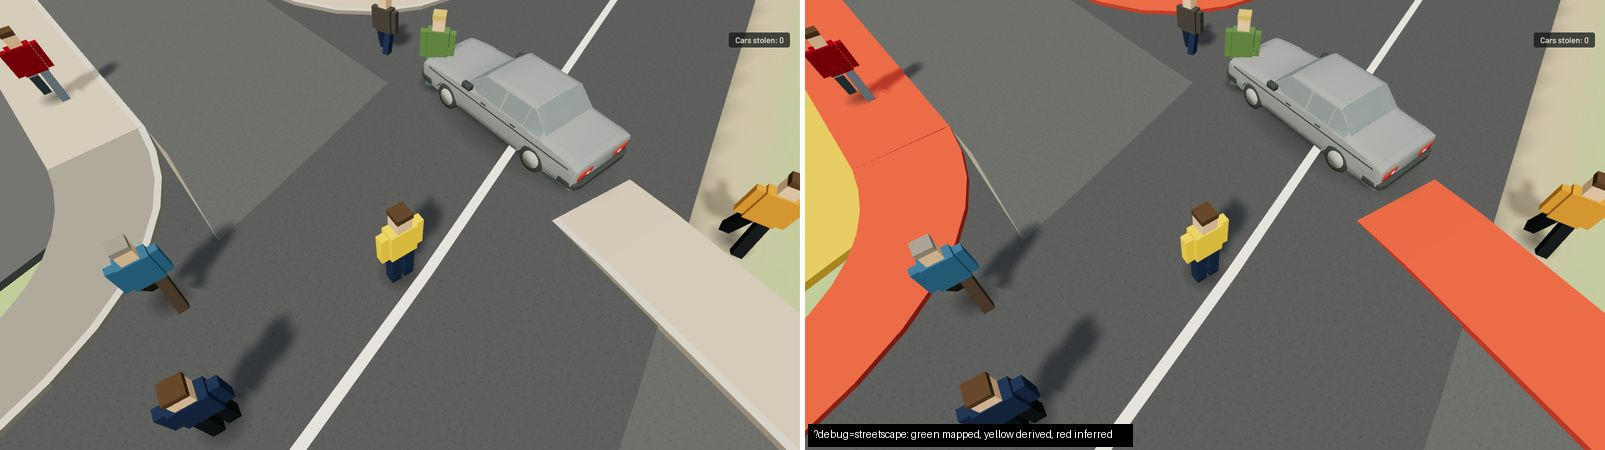
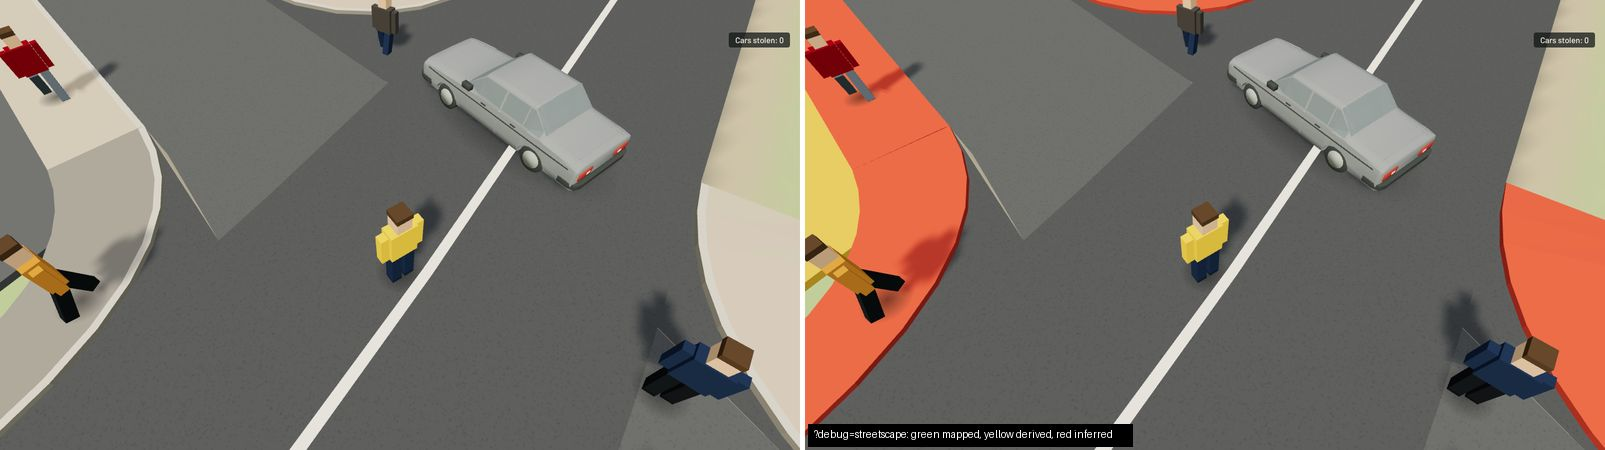
fix(world): round half junctions into the street without a sidewalk
Where only one arm of a junction sector has a sidewalk, the corner now
rounds into the other arm as a stub as deep as the strip, and ramps down
to a lowered curb over its last 1.5 m, instead of the strip ending square
at the other arm's curb line. A stub that would stand on a building,
water or another carriageway is dropped, and the strip ramps as before.

Part of #187

Claude-Session: https://claude.ai/code/session_01Lchmd5dMq52YgB3Mp3M2p7

diff --git a/src/world/streetscape.ts b/src/world/streetscape.ts
@@ -319,6 +319,11 @@ interface CornerPlan {
   liftB: number;
   /** the bigger road's class: the wedge is drawn as that road */
   cls: RoadClass;
+  /**
+   * a half corner: arm b has no sidewalk on this side, so the corner turns into it and ramps down there. Its end on
+   * b's curb line, and the outer point as deep as arm a's strip.
+   */
+  stub: { inner: V2; outer: V2 } | null;
 }
 
 /**
@@ -437,12 +442,15 @@ export function buildStreetscape(inp: StreetscapeInputs): StreetscapeLayout {
       const nB: V2 = [B.d[1], -B.d[0]];
       const K = intersect([J[0] + nA[0] * A.half, J[1] + nA[1] * A.half], A.d, [J[0] + nB[0] * B.half, J[1] + nB[1] * B.half], B.d);
       if (!K) continue;
-      const depthA = stripA ? depthOf(A.ri, sideA) : 0;
-      const depthB = stripB ? depthOf(B.ri, sideB) : 0;
+      const filleted = theta >= (MIN_CORNER_DEG * Math.PI) / 180;
+      // a half corner: the arm without a sidewalk gets a stub as deep as the other's, so the corner rounds into it
+      let depthA = stripA ? depthOf(A.ri, sideA) : 0;
+      let depthB = stripB ? depthOf(B.ri, sideB) : 0;
+      if (filleted && !stripA) depthA = depthB;
+      if (filleted && !stripB) depthB = depthA;
       const sin = Math.sin(theta);
       const cos = Math.cos(theta);
       const R = lines[A.ri].c <= RoadClass.SECONDARY || lines[B.ri].c <= RoadClass.SECONDARY ? FILLET_MAJOR_M : FILLET_STREET_M;
-      const filleted = stripA && stripB && theta >= (MIN_CORNER_DEG * Math.PI) / 180;
       // how far past K each strip must start so it clears the other arm's strip (or curb line), plus the fillet
       const clearA = (depthB + Math.max(0, depthA * cos)) / sin + 0.2;
       const clearB = (depthA + Math.max(0, depthB * cos)) / sin + 0.2;
@@ -468,7 +476,18 @@ export function buildStreetscape(inp: StreetscapeInputs): StreetscapeLayout {
           [J[0] + nB[0] * (B.half + depthB), J[1] + nB[1] * (B.half + depthB)],
           B.d,
         );
-        plans.push({ a: { ri: A.ri, side: sideA, s: endA }, b: { ri: B.ri, side: sideB, s: endB }, k: K, kOuter, liftA: roadLiftM(lines[A.ri].c), liftB: roadLiftM(lines[B.ri].c), cls: Math.min(lines[A.ri].c, lines[B.ri].c) as RoadClass });
+        const a = { ri: A.ri, side: sideA, s: endA };
+        const b = { ri: B.ri, side: sideB, s: endB };
+        const cls = Math.min(lines[A.ri].c, lines[B.ri].c) as RoadClass;
+        if (stripA && stripB) plans.push({ a, b, k: K, kOuter, liftA: roadLiftM(lines[A.ri].c), liftB: roadLiftM(lines[B.ri].c), cls, stub: null });
+        else {
+          // keep the real strip as a; the stub ends on the other arm's curb line, past K by the same clearance a strip would need
+          const [real, other, n, d, aOther, depth] = stripA ? [a, b, nB, B.d, aB, depthA] : [b, a, nA, A.d, aA, depthB];
+          const inner: V2 = [K[0] + d[0] * aOther, K[1] + d[1] * aOther];
+          const stub = { inner, outer: [inner[0] + n[0] * depth, inner[1] + n[1] * depth] as V2 };
+          const liftReal = roadLiftM(lines[real.ri].c);
+          plans.push({ a: real, b: other, k: K, kOuter, liftA: liftReal, liftB: roadLiftM(lines[other.ri].c), cls, stub });
+        }
       }
     }
   }
@@ -708,7 +727,17 @@ export function buildStreetscape(inp: StreetscapeInputs): StreetscapeLayout {
   for (const plan of plans) {
     const a = endKey(plan.a.ri, plan.a.side, plan.a.s);
     const b = endKey(plan.b.ri, plan.b.side, plan.b.s);
-    if (runEnds.has(a) && runEnds.has(b)) cornerEnds.add(a).add(b);
+    if (!plan.stub) {
+      if (runEnds.has(a) && runEnds.has(b)) cornerEnds.add(a).add(b);
+      continue;
+    }
+    // a stub needs clear ground: no building, water or other road where it would stand
+    const { inner, outer } = plan.stub;
+    const blocked = [inner, outer, lerp2(inner, outer, 0.5)].some(
+      ([x, z]) => buildingAt(x, z) || inWater(x, z) || inOtherCarriageway(plan.b.ri, x, z) || inOtherCarriageway(plan.a.ri, x, z),
+    );
+    if (runEnds.has(a) && !blocked) cornerEnds.add(a);
+    else plan.stub = null; // the strip ramps down on its own, as before
   }
   for (const r of runs) emitRun(r.ri, r.side, r.run, r.rs, r.L);
 
@@ -887,22 +916,32 @@ export function buildStreetscape(inp: StreetscapeInputs): StreetscapeLayout {
   const corners: Corner[] = [];
   for (const plan of plans) {
     const ea = ends.get(endKey(plan.a.ri, plan.a.side, plan.a.s));
-    const eb = ends.get(endKey(plan.b.ri, plan.b.side, plan.b.s));
-    if (!ea || !eb) continue; // a strip was trimmed short of its corner: it keeps its end cap, and the corner is skipped
+    const stub = plan.stub;
+    // a stub's end is lowered: the corner ramps down as it turns into the street without a sidewalk
+    const eb = stub
+      ? { inner: stub.inner, outer: stub.outer, curb: LOWERED_CURB_M, innerY: heightfield.heightAt(stub.inner[0], stub.inner[1]) + plan.liftB }
+      : ends.get(endKey(plan.b.ri, plan.b.side, plan.b.s));
+    if (!ea || !eb || (stub && !cornerEnds.has(endKey(plan.a.ri, plan.a.side, plan.a.s)))) continue; // trimmed short of its corner: the strip keeps its ramped end
     const ka = plan.k;
     const ko = plan.kOuter ?? lerp2(ea.outer, eb.outer, 0.5);
     const srcA = sideSpec(plan.a.ri, plan.a.side).source;
-    const srcB = sideSpec(plan.b.ri, plan.b.side).source;
+    const srcB = stub ? srcA : sideSpec(plan.b.ri, plan.b.side).source;
     // a corner is as good as its weaker arm's evidence
     const source = SOURCES[Math.max(SOURCES.indexOf(srcA), SOURCES.indexOf(srcB))];
     const src = SOURCES.indexOf(source);
     const surf = sideSpec(plan.a.ri, plan.a.side).surface;
     const pts: { e: number[]; t0: number[]; t1: number[]; t3: number[]; g3: number[]; inner: V2; out: V2 }[] = [];
+    // a stub keeps the full curb round the bend and ramps down over its last RAMP_M of curb line
+    const curve = Array.from({ length: CORNER_SEGMENTS + 1 }, (_, k) => bezier(ea.inner, ka, eb.inner, k / CORNER_SEGMENTS));
+    const toEnd = curve.map(() => 0);
+    for (let k = CORNER_SEGMENTS - 1; k >= 0; k--) toEnd[k] = toEnd[k + 1] + Math.hypot(curve[k + 1][0] - curve[k][0], curve[k + 1][1] - curve[k][1]);
     for (let k = 0; k <= CORNER_SEGMENTS; k++) {
       const t = k / CORNER_SEGMENTS;
-      const inner = bezier(ea.inner, ka, eb.inner, t);
+      const inner = curve[k];
       const out = bezier(ea.outer, ko, eb.outer, t);
-      const curb = ea.curb + (eb.curb - ea.curb) * t;
+      const curb = stub
+        ? Math.min(ea.curb, LOWERED_CURB_M + ((ea.curb - LOWERED_CURB_M) * toEnd[k]) / RAMP_M)
+        : ea.curb + (eb.curb - ea.curb) * t;
       const lift = plan.liftA + (plan.liftB - plan.liftA) * t;
       // the ends sit exactly on the strips' end heights; in between, the same formula as the strips
       const roadY = k === 0 ? ea.innerY : k === CORNER_SEGMENTS ? eb.innerY : heightfield.heightAt(inner[0], inner[1]) + lift;
@@ -931,6 +970,14 @@ export function buildStreetscape(inp: StreetscapeInputs): StreetscapeLayout {
       quad(surface, a.t3, a.g3, b.g3, b.t3, out, Part.SKIRT, src, surf, 0);
       // the wedge between the curb's curve and the corner the two ribbons leave open, at road level
       tri(roadPatches[plan.cls], kp, a.e, b.e, [0, 1, 0], Part.ROAD, src, Surface.ASPHALT, 0);
+    }
+    if (stub) {
+      // the stub's end cap, so it never shows an open edge
+      const p = pts[pts.length - 1];
+      const along = [p.inner[0] - pts[pts.length - 2].inner[0], 0, p.inner[1] - pts[pts.length - 2].inner[1]];
+      const below = (q: number[]) => [q[0], Math.min(heightfield.heightAt(q[0], q[2]) - SKIRT_BELOW_M, q[1]), q[2]];
+      quad(surface, below(p.t0), p.t0, p.t1, below(p.t1), along, Part.SKIRT, src, surf, 0);
+      quad(surface, below(p.t1), p.t1, p.t3, below(p.t3), along, Part.SKIRT, src, surf, 0);
     }
     const inner: number[] = [];
     const outer: number[] = [];

diff --git a/tests/unit/world/streetscape.test.ts b/tests/unit/world/streetscape.test.ts
@@ -202,6 +202,29 @@ describe('buildStreetscape: junctions', () => {
     }
   });
 
+  it('rounds a half junction into the street without a sidewalk, and ramps it down there', () => {
+    // the stem runs south; its left (east, +x) side has no sidewalk
+    const { data, layout } = build({ r: [street([-150, 0, 0, 0, 150, 0]), street([0, 0, 0, 150], { sw: [SideState.ABSENT, SideState.PRESENT] })] });
+    expect(layout.corners).toHaveLength(2);
+    const half = layout.corners.find((c) => c.inner[0] > 0 && c.inner[c.inner.length - 2] > 0)!;
+    expect(half).toBeDefined();
+    const heights = new Map(curbHeights(layout.surface).map((c) => [c.x + ',' + c.z, c.h]));
+    // the main road's strip runs into the corner at full height; the corner's far end, on the stem, is lowered
+    expect(heights.get(half.inner.slice(0, 2).join())).toBeCloseTo(CURB_RESIDENTIAL_M, 9);
+    expect(heights.get(half.inner.slice(-2).join())).toBeCloseTo(LOWERED_CURB_M, 9);
+    // the stub stands on the stem's curb line, outside both carriageways
+    const [sx, sz] = half.inner.slice(-2);
+    expect(sx).toBeCloseTo(ROAD_WIDTH_M[RoadClass.STREET] / 2, 6);
+    expect(sz).toBeGreaterThan(ROAD_WIDTH_M[RoadClass.STREET] / 2);
+    for (const { v, part } of triangles(layout.surface)) {
+      if (!TOPS.includes(part)) continue;
+      const [x, , z] = centroid(v);
+      expect(carriagewayDistance(data, x, z)).toBeGreaterThan(0);
+      expect(normal(v)[1]).toBeGreaterThan(0);
+    }
+    expectLooseEndsRamped(layout);
+  });
+
   it('fillets all four corners of a crossroads', () => {
     const { data, layout } = build({ r: [street([-150, 0, 0, 0, 150, 0]), street([0, -150, 0, 0, 0, 150])] });
     expect(layout.corners).toHaveLength(4);
